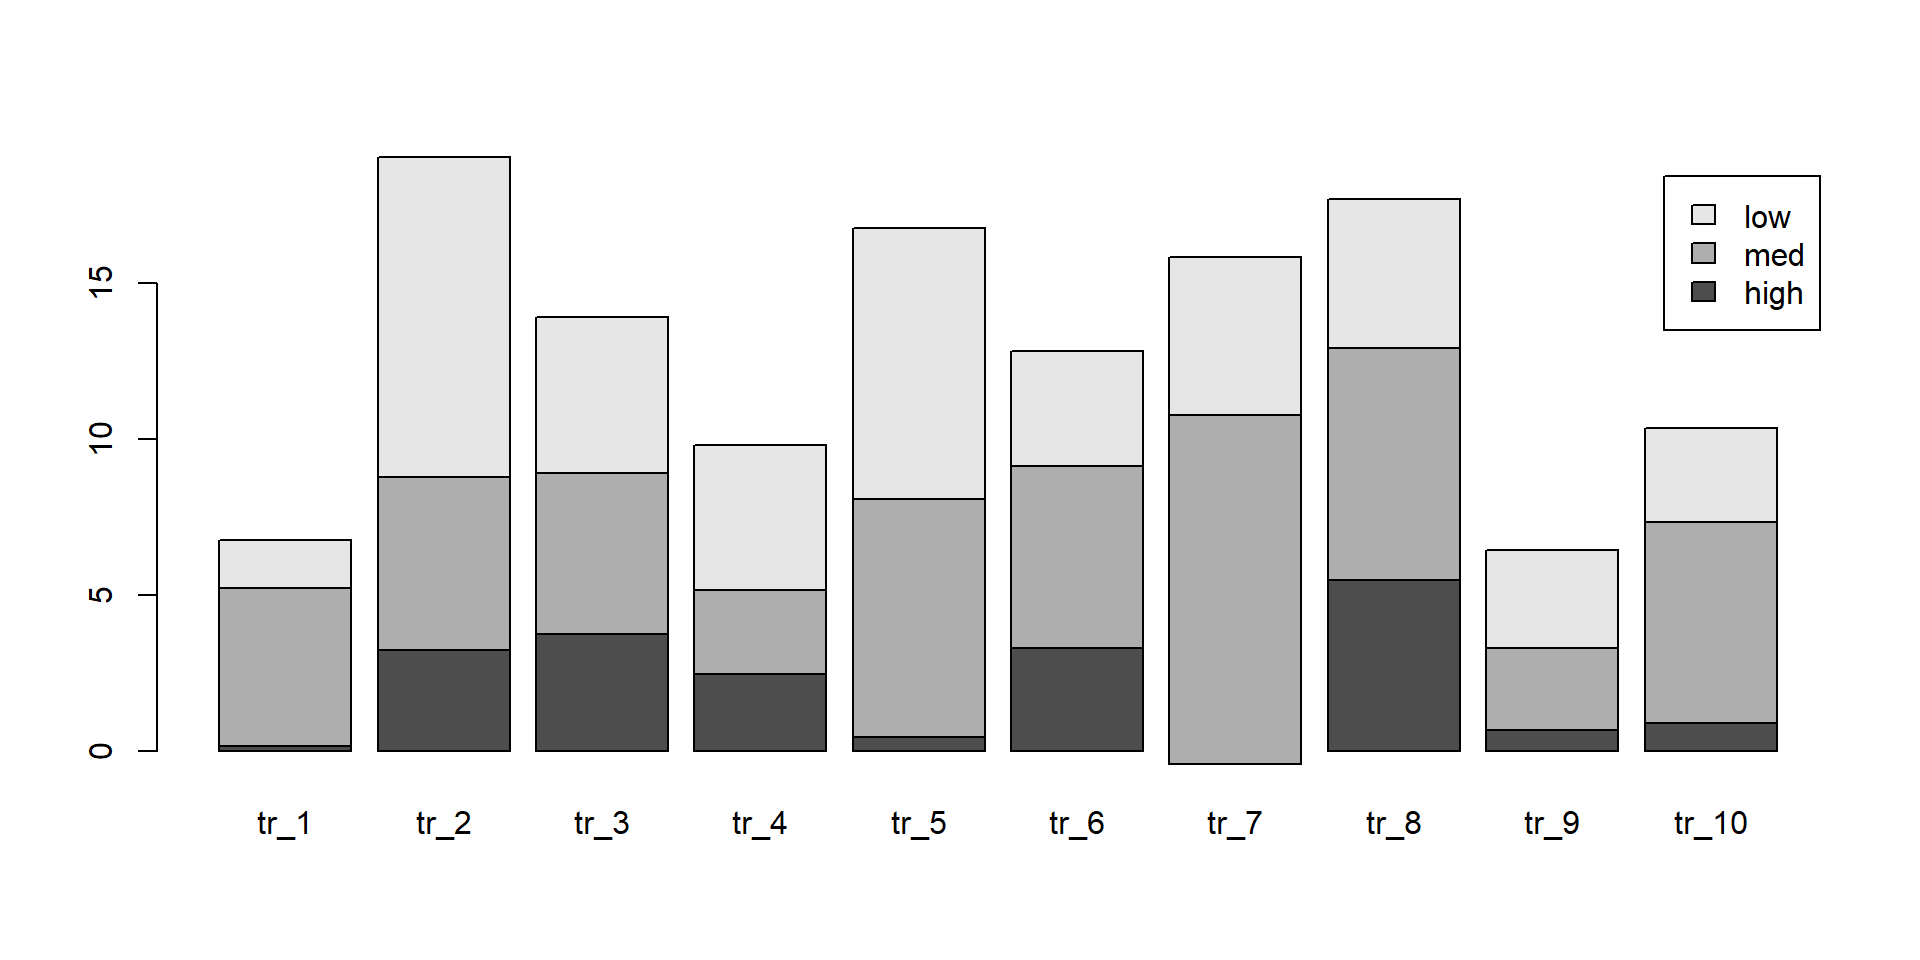
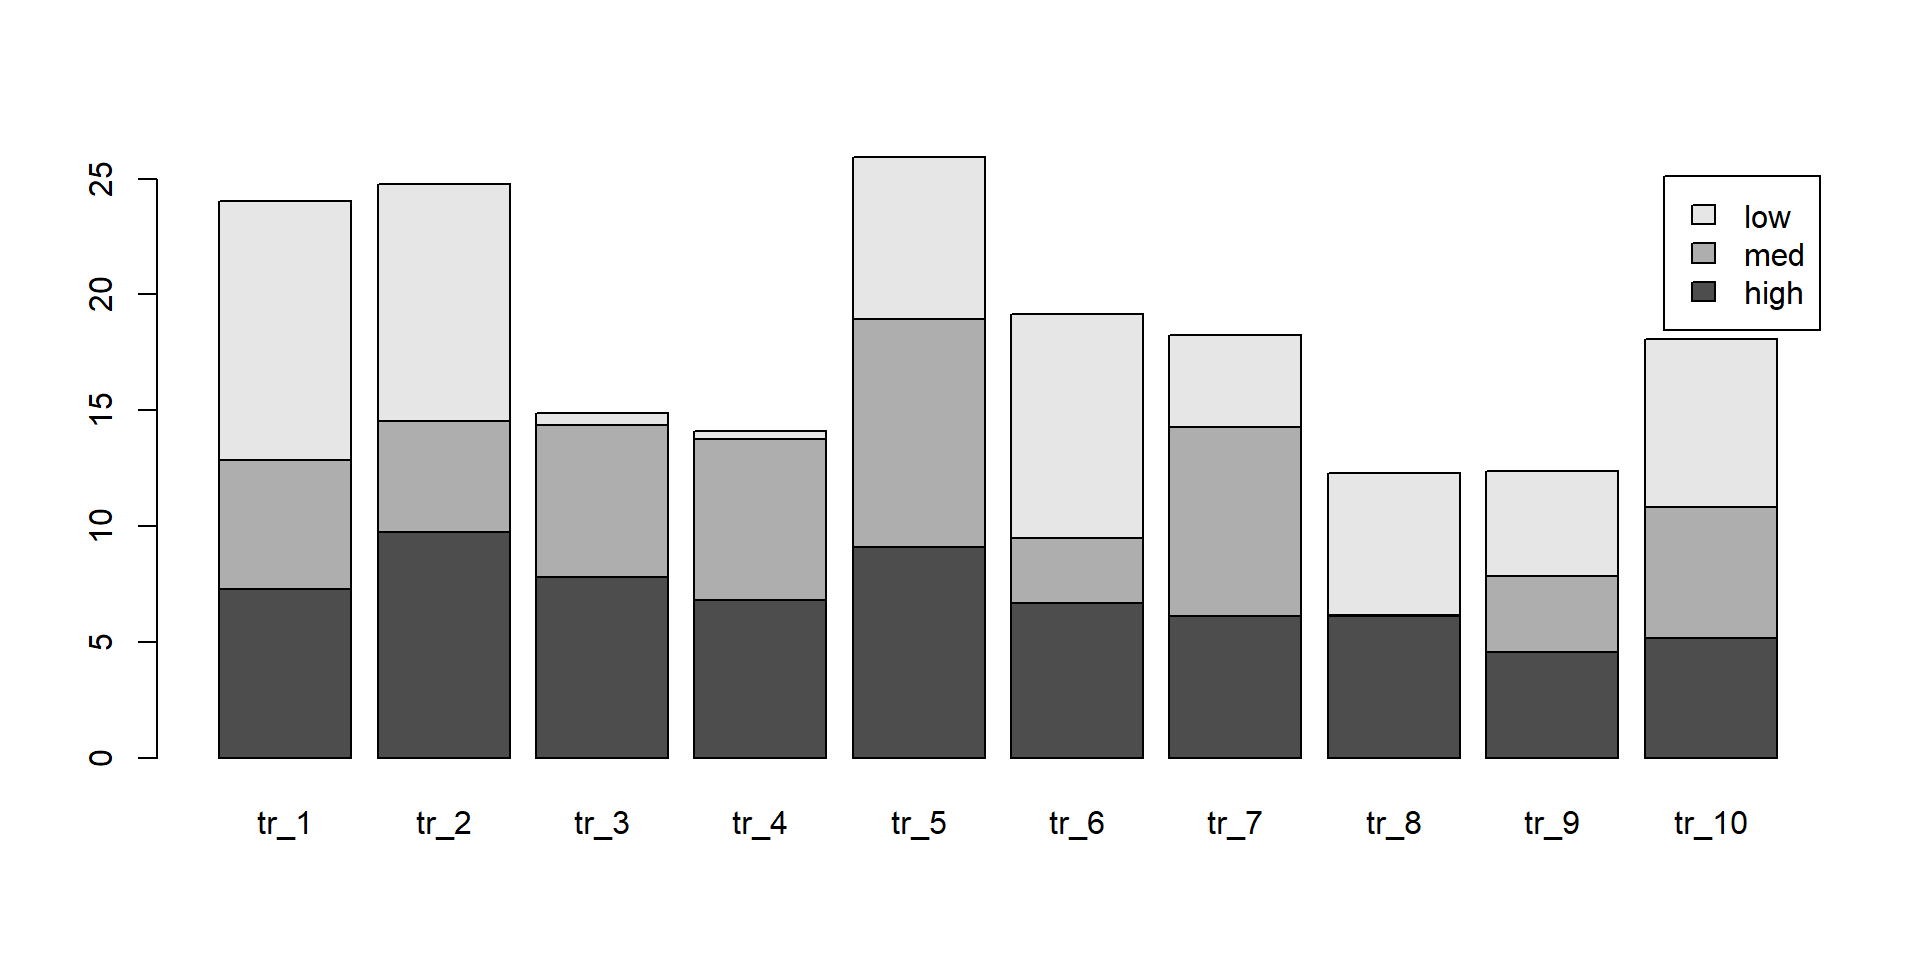
Built site for gh-pages

diff --git a/ADR-2_packages_plot.html b/ADR-2_packages_plot.html
@@ -236,7 +236,7 @@ Diego Nieto Lugilde
 <pre><code>package 'openxlsx' successfully unpacked and MD5 sums checked
 
 The downloaded binary packages are in
-    C:\Users\Diego\AppData\Local\Temp\Rtmp4CT8jH\downloaded_packages</code></pre>
+    C:\Users\Diego\AppData\Local\Temp\Rtmp4yFvsL\downloaded_packages</code></pre>
 </div>
 </div>
 </section>
@@ -270,7 +270,7 @@ The downloaded binary packages are in
 <pre><code>package 'devtools' successfully unpacked and MD5 sums checked
 
 The downloaded binary packages are in
-    C:\Users\Diego\AppData\Local\Temp\Rtmp4CT8jH\downloaded_packages</code></pre>
+    C:\Users\Diego\AppData\Local\Temp\Rtmp4yFvsL\downloaded_packages</code></pre>
 </div>
 <div class="sourceCode cell-code" id="cb6"><pre class="sourceCode numberSource r number-lines code-with-copy"><code class="sourceCode r"><span id="cb6-1"><a></a><span class="fu">library</span>(devtools)</span>
 <span id="cb6-2"><a></a></span>
@@ -480,7 +480,7 @@ The downloaded binary packages are in
 </div>
 </div></div>
 </section>
-<section id="puedo-cambiar-los-colores" class="slide level2">
+<section id="puedo-cambiar-los-colores" class="slide level2 smaller">
 <h2>Puedo cambiar los colores</h2>
 <ul>
 <li>Usando el nombre</li>
@@ -546,7 +546,7 @@ The downloaded binary packages are in
 <div class="cell-output-display">
 <div>
 <figure>
-<p><a href="ADR-2_packages_plot_files/figure-revealjs/unnamed-chunk-18-1.png" class="lightbox" data-gallery="quarto-lightbox-gallery-17"><img data-src="ADR-2_packages_plot_files/figure-revealjs/unnamed-chunk-18-1.png" width="384"></a></p>
+<p><a href="ADR-2_packages_plot_files/figure-revealjs/unnamed-chunk-18-1.png" class="lightbox" data-gallery="quarto-lightbox-gallery-17"><img data-src="ADR-2_packages_plot_files/figure-revealjs/unnamed-chunk-18-1.png" width="960"></a></p>
 </figure>
 </div>
 </div>
@@ -566,7 +566,7 @@ The downloaded binary packages are in
 <div class="cell-output-display">
 <div>
 <figure>
-<p><a href="ADR-2_packages_plot_files/figure-revealjs/unnamed-chunk-19-1.png" class="lightbox" data-gallery="quarto-lightbox-gallery-18"><img data-src="ADR-2_packages_plot_files/figure-revealjs/unnamed-chunk-19-1.png" width="384"></a></p>
+<p><a href="ADR-2_packages_plot_files/figure-revealjs/unnamed-chunk-19-1.png" class="lightbox" data-gallery="quarto-lightbox-gallery-18"><img data-src="ADR-2_packages_plot_files/figure-revealjs/unnamed-chunk-19-1.png" width="960"></a></p>
 </figure>
 </div>
 </div>
